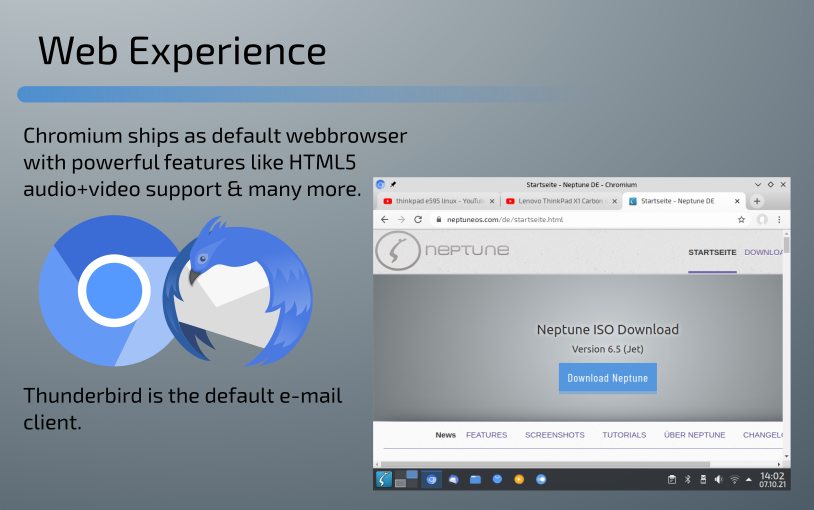
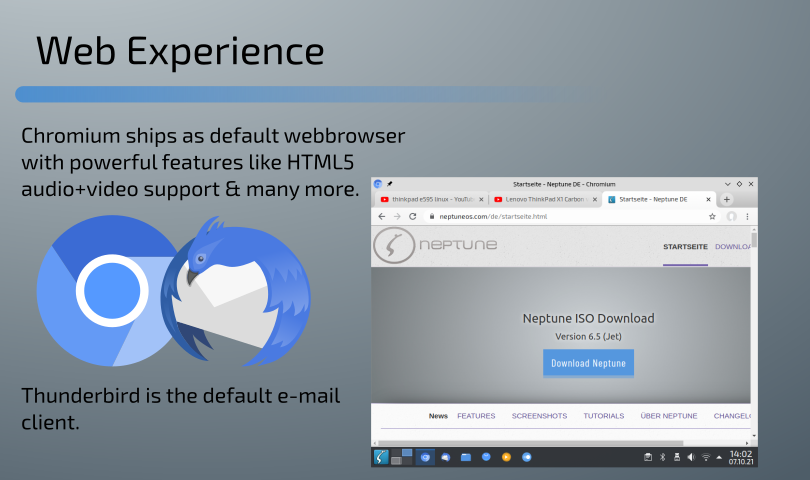
Updated slideshow to better work on smaller screens

Changed region(s): [[0.0309, 0.25, 0.9877, 1.0], [0.0, 0.0625, 0.5247, 0.2188]]

diff --git a/etc/calamares/branding/neptune/show.qml b/etc/calamares/branding/neptune/show.qml
@@ -17,7 +17,7 @@
  */
 
 /*
- * Change slides width and height from 800x480px to 810x510px to remove side lines
+ * Change slides width and height from 810x480px to 810x480px to remove side lines
  * Slides images dimensions are 1600x960px.
  */
 
@@ -27,6 +27,7 @@ import calamares.slideshow 1.0;
 Presentation
 {
     id: presentation
+    anchors.fill: parent
 
     Timer {
         interval: 20000
@@ -34,15 +35,17 @@ Presentation
         repeat: true
         onTriggered: presentation.goToNextSlide()
     }
-    
+
     Slide {
+        anchors.fill: parent
 
         Image {
             id: background1
             source: "slide1.png"
-            width: 810; height: 510
+            width: 810; height: 480
             fillMode: Image.PreserveAspectFit
-            anchors.centerIn: parent
+            //anchors.centerIn: parent
+            anchors.fill: parent
         }
         //Text {
             //anchors.horizontalCenter: background1.horizontalCenter
@@ -55,13 +58,15 @@ Presentation
     }
 
     Slide {
+        anchors.fill: parent
 
         Image {
             id: background2
             source: "slide2.png"
-            width: 810; height: 510
+            width: 810; height: 480
             fillMode: Image.PreserveAspectFit
-            anchors.centerIn: parent
+            //anchors.centerIn: parent
+            anchors.fill: parent
         }
         //Text {
             //anchors.horizontalCenter: background2.horizontalCenter
@@ -74,13 +79,15 @@ Presentation
     }
 
     Slide {
+        anchors.fill: parent
 
         Image {
             id: background3
             source: "slide3.png"
-            width: 810; height: 510
+            width: 810; height: 480
             fillMode: Image.PreserveAspectFit
-            anchors.centerIn: parent
+            //anchors.centerIn: parent
+            anchors.fill: parent
         }
         //Text {
             //anchors.horizontalCenter: background3.horizontalCenter
@@ -93,13 +100,15 @@ Presentation
     }
 
     Slide {
+        anchors.fill: parent
 
         Image {
             id: background4
             source: "slide4.png"
-            width: 810; height: 510
+            width: 810; height: 480
             fillMode: Image.PreserveAspectFit
-            anchors.centerIn: parent
+            //anchors.centerIn: parent
+            anchors.fill: parent
         }
         //Text {
             //anchors.horizontalCenter: background4.horizontalCenter
@@ -112,13 +121,15 @@ Presentation
     }
 
     Slide {
+        anchors.fill: parent
 
         Image {
             id: background5
             source: "slide5.png"
-            width: 810; height: 510
+            width: 810; height: 480
             fillMode: Image.PreserveAspectFit
-            anchors.centerIn: parent
+            //anchors.centerIn: parent
+            anchors.fill: parent
         }
         //Text {
             //anchors.horizontalCenter: background5.horizontalCenter
@@ -131,13 +142,15 @@ Presentation
     }
     
     Slide {
+        anchors.fill: parent
 
         Image {
             id: background6
             source: "slide6.png"
-            width: 810; height: 510
+            width: 810; height: 480
             fillMode: Image.PreserveAspectFit
-            anchors.centerIn: parent
+            //anchors.centerIn: parent
+            anchors.fill: parent
         }
         //Text {
             //anchors.horizontalCenter: background6.horizontalCenter
@@ -149,13 +162,15 @@ Presentation
     }
     
     Slide {
+        anchors.fill: parent
 
         Image {
             id: background7
             source: "slide7.png"
-            width: 810; height: 510
+            width: 810; height: 480
             fillMode: Image.PreserveAspectFit
-            anchors.centerIn: parent
+            //anchors.centerIn: parent
+            anchors.fill: parent
         }
         //Text {
             //anchors.horizontalCenter: background6.horizontalCenter
@@ -167,13 +182,15 @@ Presentation
     }
     
     Slide {
+        anchors.fill: parent
 
         Image {
             id: background8
             source: "slide8.png"
-            width: 810; height: 510
+            width: 810; height: 480
             fillMode: Image.PreserveAspectFit
-            anchors.centerIn: parent
+            //anchors.centerIn: parent
+            anchors.fill: parent
         }
         //Text {
             //anchors.horizontalCenter: background6.horizontalCenter
@@ -185,13 +202,15 @@ Presentation
     }
     
     Slide {
+        anchors.fill: parent
 
         Image {
             id: background9
             source: "slide9.png"
-            width: 810; height: 510
+            width: 810; height: 480
             fillMode: Image.PreserveAspectFit
-            anchors.centerIn: parent
+            //anchors.centerIn: parent
+            anchors.fill: parent
         }
         //Text {
             //anchors.horizontalCenter: background6.horizontalCenter
